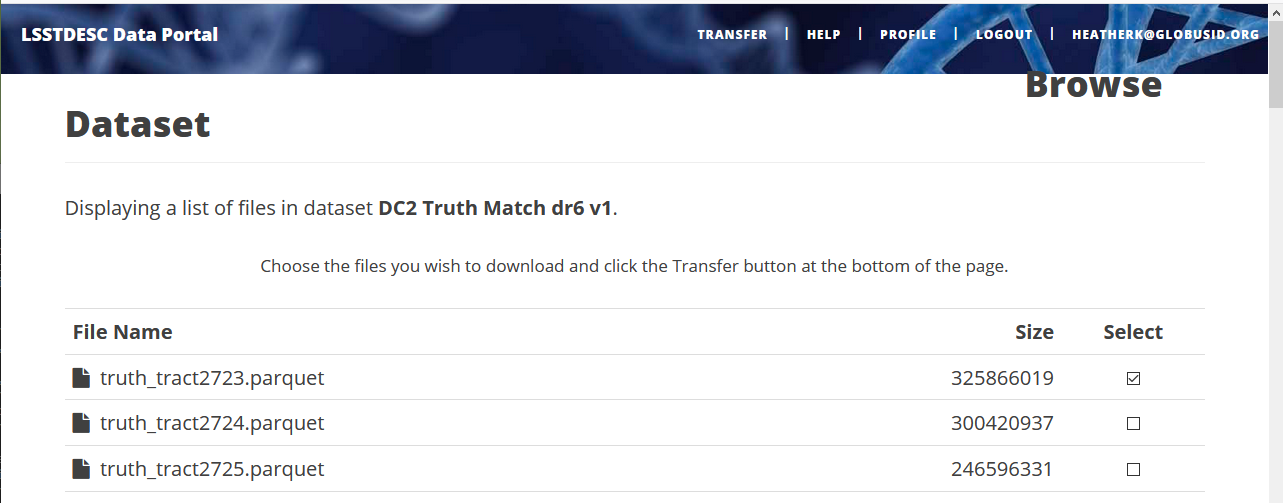
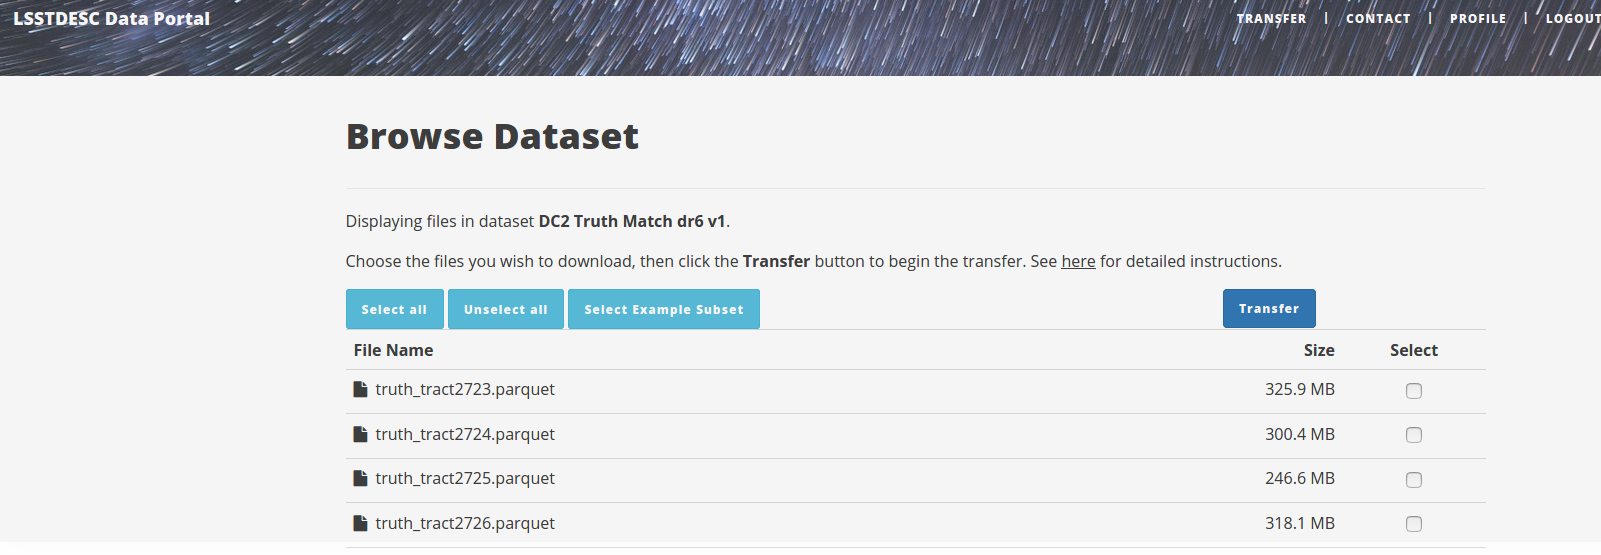
bring download doc up to date

diff --git a/web/portal/templates/doc/download.md b/web/portal/templates/doc/download.md
@@ -5,7 +5,7 @@ The [LSSTDESC Data Portal](https://lsstdesc-portal.nersc.gov/) allows anyone to 
 
 To get started click Login to authenticate into Globus using your organizational login or existing GlobusID. If needed, create a GlobusID using the "Sign Up" link.
 
-If you want to download files to a local machine (e.g., your laptop), you will need to set up Globus Personal Connect on your local machine first.
+If you want to download files to a local machine (e.g., your laptop), you will need to set up [Globus Personal Connect]({{url_for('render_doc', doc_name='globus_personal')}}) on your local machine first.
 
 Once authenticated with Globus, users may transfer either whole directories or individual files by clicking on Transfer from the Home page.  You will be brought to a page like:
 
@@ -18,7 +18,7 @@ If you would prefer to download individual files, click on one of the Datasets a
 
 ![File Selection](/static/img/fileselect.png)
 
-Choose your files, and then click Transfer.  In either case, when clicking Transfer, you will be taken to a Globus page where you will choose the destination for your download.
+Choose your files, and then click Transfer. You may optionally choose a predefined subset of the dataset by clicking the "Select Example Subset" button.  When finished choosing your files, click Transfer, and you will be taken to a Globus page where you will choose the destination for your download.
 
 ![Globus](/static/img/globus.png)
 
